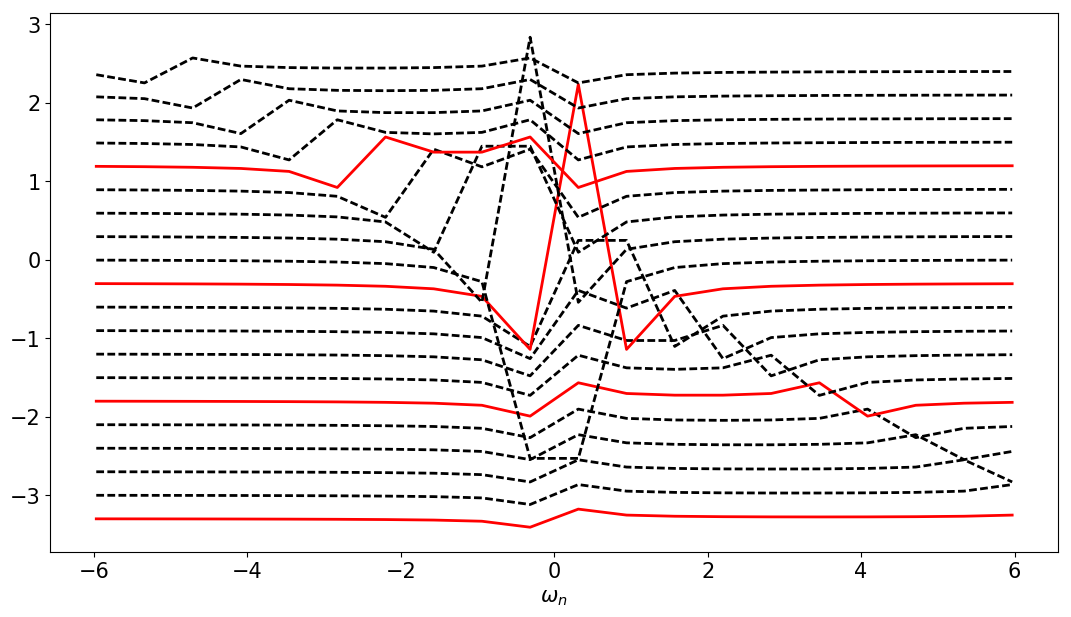
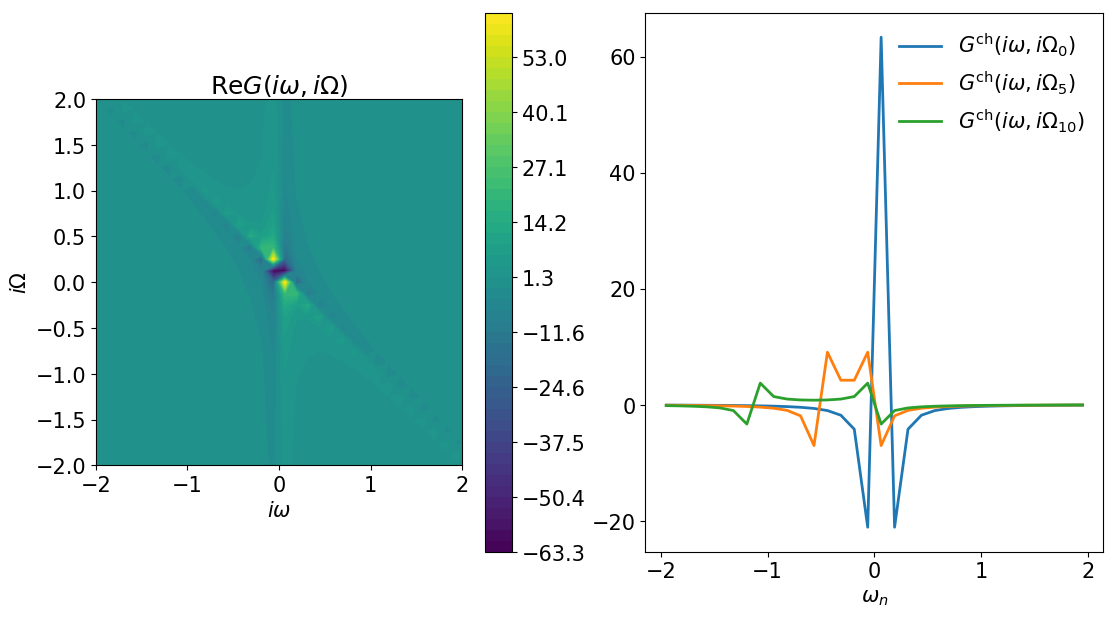
[plot] add color plot for two-frequency Gfs.
+ doc in tutorials.

Also fixed label names in G_k_om plot.

diff --git a/pytriqs/gf/local/_gf_X_x_X.py b/pytriqs/gf/local/_gf_X_x_X.py
@@ -1,0 +1,47 @@
+import numpy as np
+from pytriqs.gf.local.multivar import *
+
+def plot(self, opt_dict):
+    r"""
+    Plot protocol for GfBrillouinZone objects.
+    """
+
+    plot_type = opt_dict.pop('type','contourf')
+    method = opt_dict.pop('method', 'nearest')
+    comp = opt_dict.pop('mode', 'R')
+    component=  lambda x : x.real if comp=="R" else x.imag
+    if type(self)==GfImFreq_x_ImFreqTv3:
+     X_label = r"i\omega"
+     Y_label = r"i\Omega"
+     mp_comp = lambda x : x.imag
+    elif type(self)==GfImTime_x_ImTimeTv3:
+     X_label = r"\omega"
+     Y_label = r"\Omega"
+     mp_comp = lambda x : x.real
+    else:
+     X_label = "X"
+     Y_label = "Y"
+     mp_comp = lambda x : x.real
+
+    if plot_type=="contourf":
+     x = np.array([mp_comp(m) for m in self.mesh.components[0]])
+     y = np.array([mp_comp(m) for m in self.mesh.components[1]])
+     z = np.transpose(self.data[:,:,0,0,0])
+     zmin=np.amin(z.real)+np.amin(z.imag)*1j
+     zmax=np.amax(z.real)+np.amax(z.imag)*1j
+
+     default_dict = {'xdata': x, 
+                     'ydata': y, 
+                     'label': r'$G_\mathbf{k}$', 
+                     'xlabel': r'$%s$'%X_label, 
+                     'ylabel': r'$%s$'%Y_label, 
+                     'zdata' : component(z),
+                     'levels':np.linspace(component(zmin),component(zmax),50), 
+                     'plot_function': plot_type,
+                     'title': r'$\mathrm{%s}G(%s,%s)$'%('Re' if comp=='R' else 'Im',X_label, Y_label), 
+                    }
+    else: raise Exception("Unknown plot type %s. Should be 'contourf' (default).'"%plot_type)
+
+    default_dict.update(opt_dict)
+
+    return [default_dict]

diff --git a/pytriqs/gf/local/_gf_brillouin_zone_x_X.py b/pytriqs/gf/local/_gf_brillouin_zone_x_X.py
@@ -1,4 +1,5 @@
 from select_indices import *
+from pytriqs.gf.local.multivar import *
 from scipy.interpolate import griddata
 import numpy as np
 
@@ -38,7 +39,16 @@ def plot(self, opt_dict):
     method = opt_dict.pop('method', 'nearest')
     comp = opt_dict.pop('mode', 'R')
     component=  lambda x : x.real if comp=="R" else x.imag
-
+    if type(self)==GfBrillouinZone_x_ImFreq:
+     Y_label=r"i\omega"
+    elif type(self)==GfBrillouinZone_x_ReFreq:
+     Y_label=r"\omega"
+    elif type(self)==GfBrillouinZone_x_ReTime:
+     Y_label="t"
+    elif type(self)==GfBrillouinZone_x_ImTime:
+     Y_label=r"\tau"
+    else:
+     Y_label="X"
     if plot_type=="contourf":
      path=opt_dict.pop("path")
      x,y,z,zmin, zmax, high_sym = plottable_slice_along_path(self,path=path, method=method)
@@ -48,11 +58,12 @@ def plot(self, opt_dict):
                      'ydata': y, 
                      'label': r'$G_\mathbf{k}$', 
                      'xlabel': r'$\mathbf{k}$',
+                     'ylabel': r'$%s$'%Y_label,
                      'zdata' : component(z),
                      'levels':np.linspace(component(zmin),component(zmax),50), 
                      'plot_function': 'contourf',
                      'xticks' : xticks_args,
-                     'title': r'$\mathrm{%s}G(\mathbf{k},\omega)$'%('Re' if comp=='R' else 'Im'), 
+                     'title': r'$\mathrm{%s}G(\mathbf{k},%s)$'%('Re' if comp=='R' else 'Im', Y_label), 
                     }
     else: raise Exception("Unknown plot type %s. Can only be 'contourf' (default)."%plot_type)
 

diff --git a/doc/tutorials/gfs/multivar.py b/doc/tutorials/gfs/multivar.py
@@ -5,11 +5,10 @@ from pytriqs.plot.mpl_interface import *
 from math import pi
 
 ##construct the mesh
-beta=10.0
+beta=50.0
 m1=MeshImFreq(beta=beta, S="Fermion", n_max=100) #fermionic Matsubara frequency mesh
 m2=MeshImFreq(beta=beta, S="Boson", n_max=100) # bosonic
 mprod=MeshImFreqImFreq(m1,m2) # mesh product of m1 and m2
-
 
 ##construct the Gf
 U=1.0
@@ -20,10 +19,21 @@ G=BlockGf(name_list = ["ch","sp"],block_list = [g,g])
 g_om = GfImFreq(mesh=m1, shape=[1,1])
 w=lambda n: 2*n*pi/beta*1j
 for n in range(-100,99):
- g_om << U**2/4*inverse(iOmega_n+w(n))*inverse(iOmega_n)
- G["ch"].data[:,n+100,0,0,0]=g_om.data[:,0,0]+0.3*n #the shift 0.4*n is just for plotting purposes
+    g_om << U**2/4*inverse(iOmega_n+w(n))*inverse(iOmega_n)
+    G["ch"].data[:,n+100,0,0,0]=g_om.data[:,0,0]
 
 ###plot
-for n in range(-10,10):
- oplot(G["ch"][0,0,0].slice_at_const_w2(n),'-r' if n%5==0 else '--k', mode="R", x_window=(-6,6), label=None)
-ylabel("")
+gs=GridSpec(1,2)
+subplot(gs[0], aspect="equal")
+oplot(G["ch"][0,0,0], type="contourf")
+xlim(-2,2)
+ylim(-2,2)
+colorbar()
+subplot(gs[1])
+for n in [0,5,10]:
+ oplot(G["ch"][0,0,0].slice_at_const_w2(n), mode="R", x_window=(-2,2), label=r"$G^\mathrm{ch}(i\omega, i\Omega_{%s})$"%n)
+ylabel("");
+
+
+
+

diff --git a/pytriqs/gf/local/multivar_desc.py b/pytriqs/gf/local/multivar_desc.py
@@ -125,6 +125,8 @@ for TimeMesh in [[("ImFreq","imfreq"), ("ImFreq","imfreq")],[("ImTime","imtime")
     c.add_method_copy_from()
     if TimeMesh[0][0] =="BrillouinZone":
      c.add_pure_python_method("pytriqs.gf.local._gf_%s_x_X.plot"%(TimeMesh[0][1]), rename = "_plot_")
+    elif len(TimeMesh)==2:
+     c.add_pure_python_method("pytriqs.gf.local._gf_X_x_X.plot", rename = "_plot_")
 
     module.add_class(c)
 

diff --git a/doc/tutorials/gfs/multivar_gfs_tutorial_python.rst b/doc/tutorials/gfs/multivar_gfs_tutorial_python.rst
@@ -7,23 +7,26 @@ TRIQS comes with multivariable Green's functions such as
 :math:`\gamma(i\omega,i\omega',i\Omega)`.
 
 They come with properties similar to the single-variable Greens
-functions, namely: - they have a **mesh** (which is the cartesian
-product of two one-dimensional meshes) - they have **data** (a numpy
-array of shape
-``dim_var1 x dim_var2 x ... x dim_target_1 x dim_target_2 x ...``) -
-they can be stored in a **HDF5 archive** - they can be **broadcast**,
-**reduced**... - they can be **sliced in the target space**, one can
-access e.g. the element
-:math:`G_{\uparrow,\downarrow,z}(i\omega,i\Omega)` in the example above
+functions, namely: 
+
+ - they have a **mesh** (which is the cartesian product of two one-dimensional meshes) 
+
+ - they have **data** (a numpy array of shape ``dim_var1 x dim_var2 x ... x dim_target_1 x dim_target_2 x ...``) 
+
+ - they can be stored in a **HDF5 archive** 
+  
+ - they can be **broadcast**, **reduced**... 
+
+ - they can be **sliced in the target space**, one can access e.g. the element :math:`G_{\uparrow,\downarrow,z}(i\omega,i\Omega)` in the example above
 
 The main additional feature is the ability to slice the Greens function
 with respect to its frequency arguments. This is done via the functions
-``slice_at_const_w1(n)``, ``slice_at_const_w2(n)``... where n is
+**``slice_at_const_w1(n)``**, **``slice_at_const_w2(n)``**... where n is
 the Matsubara index of the first, second, ... argument, respectively.
 
 For instance, if G is the object representing
 :math:`\gamma(i\omega,i\omega',i\Omega)`,
-``G.slice_at_const_w3(10).slice_at_const_w2(4)`` is the function
+**``G.slice_at_const_w3(10).slice_at_const_w2(4)``** is the function
 :math:`i\omega_n \rightarrow \gamma(i\omega_n,i\omega'_4,i\Omega_{10})`
 
 The construction and use of these functions is illustrated for the
@@ -33,14 +36,11 @@ following vertex function:
 
 This is a block function whose two blocks are defined on a product of
 two Matsubara frequency meshes, and are tensor-valued of rank 3: the
-blocks are encoded by objects of the type ``GfImFreq_x_ImFreqTv3``.
+blocks are encoded by objects of the type **``GfImFreq_x_ImFreqTv3``**.
 
 .. plot:: tutorials/gfs/multivar.py
    :include-source:
    :scale: 70
 
-
-
 .. image:: multivar.png
-
 
